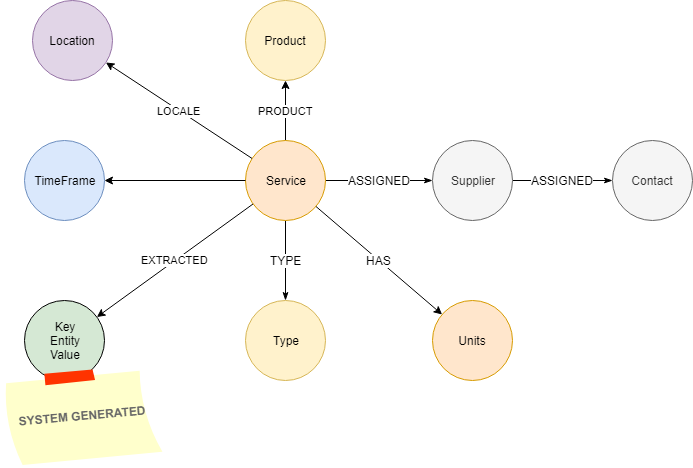
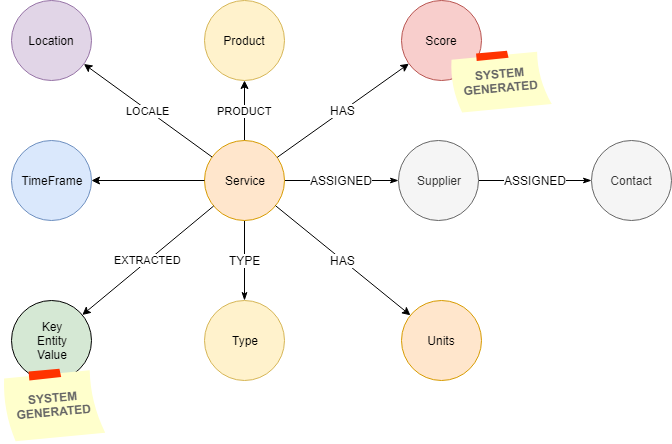
:pencil: Various updates

diff --git a/README.md b/README.md
@@ -1,9 +1,12 @@
 # covid19 Catalog Services
-Automated Catalogue Services to match supply to demand
+Automate the assessment of service offers from suppliers to identify the correct response from the UK Government.
+
+The response could vary from `Inform the cabinet` to `advise the supplier to work with their local NHS response team`
 
 ## Problem Statement
-> The industry is experiencing in getting bonafide and important offers to help Government to the right people due to the sheer number of offers reaching them.  
+> Suppliers and individuals are offering their services in support of the COVID19 pandemic; the sheer volume of offers is almost impossible to manage for a single government department or entry point.   The high volume is impacting the means to identify where an offer meets a current urgent need, highlights a potential new area of support or is a potential distraction; thus resulting in the risk to miss a key offer in this time critical response.
 
+## The challenge
 How to bring business intelligence to help identity the right suppliers for the 1000's of requests being raised by various UK government departments.
 
 ## Personas
@@ -14,6 +17,29 @@ Government department with a clear requirement to help support the COVID19 respo
 ### Suppliers
 General suppliers of any potential services to the government.
 
+### Scoring
+
+1 - Immediate value
+2 - near term value 
+3 - mid term value 
+4 - long term value
+5 - local community value
+
+
+## Use Cases
+
+### Use Case 1
+Supplier raises a service offer<br>
+![image](images/UseCase1.png)<br>
+
+### Use Case 2
+Government department raises a service request<br>
+![image](images/UseCase2.png)<br>
+
+
+### Use Case 3
+Government department analyse service offers to identify new potential responses<br>
+![image](images/UseCase3.png)<br>
 
 ## Constraints
 Suppliers should not be constrained by a service definition or fixed placement within any catalogue of services.
@@ -23,11 +49,11 @@ UK government requirements are clearly defined.
 
 ---
 
-- [Conceptual View](conceptView.md)
 - [Architecture](architecture.md)
+- [SiteMap](siteMap.md)
 - [Datamodel](dataModel.md)
-- [Capture forms](CaptureForms.md)
-- [Matching Logic and Output](Output.md)
+- [Manual Capture forms](CaptureForms.md)
+- [Matching Logic](Matching.md)
 - [Required Skills](Skills.md)
 
 ---

diff --git a/CaptureForms.md b/CaptureForms.md
@@ -1,19 +1,25 @@
 # COVID19 Intelligent Catalog Service
 
+## Suppliers
+
+![image](images/SupplierEntry.png)<br>
+
+The system will then review and extract the key themes from the supplier, users can **go back and edit**, **remove suggestions** and **Submit**
+![image](images/SupplierSummary.png)<br>
+<br>
+
+After submission the supplier is shown their calculated value and provided with a link to the relevant next steps.<br>
+![image](images/SupplierResults.png)<br>
+
 
 ## Requests
 
 ![image](images/RequestForm.png)<br>
 
-The system will then review and extract the key themes from the request, user can **go back and edit**, **remove suggestions** and **Submit**
+The system will then review and extract the key themes from the request, users can **go back and edit**, **remove suggestions** and **Submit**
 
 ![image](images/RequestSummary.png)<br>
 
 
-## Suppliers
 
-![image](images/SupplierEntry.png)<br>
-
-The system will then review and extract the key themes from the supplier, user can **go back and edit**, **remove suggestions** and **Submit**
-![image](images/SupplierSummary.png)<br>
 

diff --git a/architecture.md b/architecture.md
@@ -1,11 +1,12 @@
 # covid19 Catalog Services
 ## Technical View
 
-### Expanded Conceptual View
+### Implementation View
+![image](images/TechnicalView2.png)<br>
+_UK Gov restrictions may require further breakdown and separation of services_
+
+### Expanded Conceptual View 
 ![image](images/TechnicalView.png)<br>
 
 
 
-### Implementation View
-![image](images/TechnicalView2.png)<br>
-_UK Gov restrictions may require further breakdown and separation of services_

diff --git a/dataModel.md b/dataModel.md
@@ -1,10 +1,12 @@
 # covid19 Catalog Services
 ## Data Models
 
+### Suppliers
+
+![images](images/SupplierDataModel.png)<br>
+
 ### Requests
 
 ![images](images/RequestDataModel.png)<br>
 
-### Suppliers
 
-![images](images/SupplierDataModel.png)<br>

diff --git a/Matching.md b/Matching.md
@@ -7,8 +7,3 @@ The graph will connect requirements and suppliers based on the match key theme v
 
 ![image](images/MatchingGraph.png)<br>
 
-
-## Output view
-
-
-![image](images/SupplierMatches.png)<br>

diff --git a/siteMap.md b/siteMap.md
@@ -1,0 +1,4 @@
+# covid19 Catalog Services
+## SiteMap
+
+![image](images/SiteMap.png)<br>
